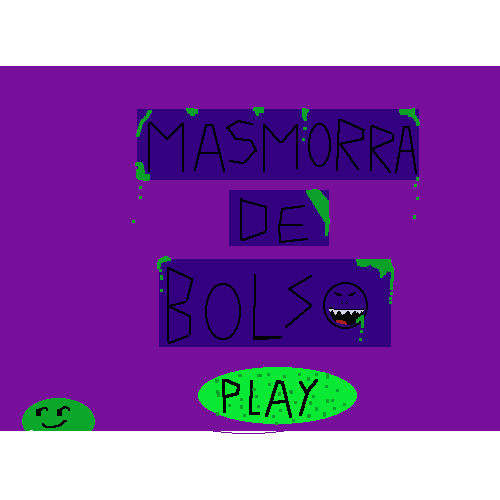
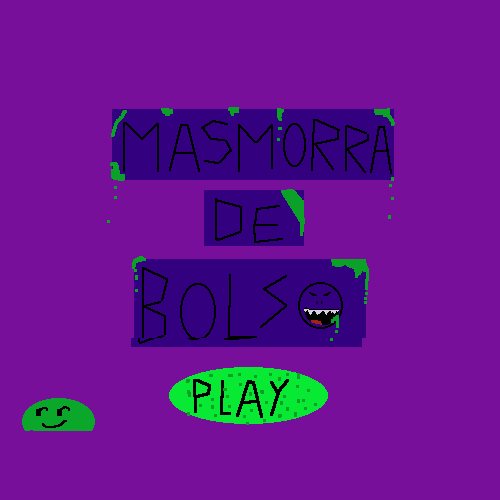
fix(ui): center title and PLAY button perfectly and blend background seamlessly

diff --git a/src/scenes/TitleScene.ts b/src/scenes/TitleScene.ts
@@ -15,24 +15,24 @@ export class TitleScene extends Phaser.Scene {
     const width = CONSTANTS.GAME_WIDTH;
     const height = CONSTANTS.GAME_HEIGHT;
 
-    // Fundo escuro com tonalidade roxa combinando com a arte
-    this.cameras.main.setBackgroundColor('#0b0714');
+    // Fundo roxo exatamente na mesma tonalidade da arte (#770f9a) para integração perfeita
+    this.cameras.main.setBackgroundColor('#770f9a');
 
-    // Partículas mágicas sutis no fundo (roxo e verde slime)
+    // Partículas mágicas sutis no fundo (verde slime e brilho dourado)
     const particles = this.add.graphics();
     particles.setDepth(1);
-    for (let i = 0; i < 30; i++) {
+    for (let i = 0; i < 25; i++) {
       const px = Math.random() * width;
       const py = Math.random() * height;
-      const pColor = Math.random() > 0.4 ? 0x770f9a : 0x22c55e;
+      const pColor = Math.random() > 0.5 ? 0x22c55e : 0xfacc15;
       particles.fillStyle(pColor, Math.random() * 0.35 + 0.15);
       particles.fillCircle(px, py, Math.random() * 1.5 + 0.5);
     }
 
-    // Imagem da Capa / Página Inicial com o logotipo e botão PLAY verde embutido
-    const titleScale = 0.58;
+    // Imagem da Capa / Página Inicial 100% centralizada na tela
+    const titleScale = 0.54;
     const imgX = width / 2;
-    const imgY = height / 2 - 6;
+    const imgY = height / 2 - 4;
 
     const titleImage = this.add.image(imgX, imgY, 'pagina_inicial');
     titleImage.setScale(titleScale);
@@ -48,14 +48,13 @@ export class TitleScene extends Phaser.Scene {
       ease: 'Sine.easeInOut'
     });
 
-    // Posição do botão oval verde "PLAY" contido na arte (500x500)
-    // No asset original: centro x=295, y=363 (offset de +45, +113 em relação ao centro 250,250)
-    const playX = imgX + 45 * titleScale;
-    const playY = imgY + 113 * titleScale;
-    const playW = 112 * (titleScale / 0.58);
-    const playH = 68 * (titleScale / 0.58);
+    // Posição do botão oval verde "PLAY" perfeitamente alinhado no centro (x = width / 2)
+    const playX = imgX;
+    const playY = imgY + 131 * titleScale;
+    const playW = 110;
+    const playH = 50;
 
-    // Zona interativa posicionada sobre o botão verde "PLAY" da arte com cursor de mão
+    // Zona interativa posicionada exatamente sobre o botão verde "PLAY" centralizado
     const playZone = this.add.zone(playX, playY, playW, playH);
     playZone.setDepth(25);
     playZone.setInteractive({ useHandCursor: true });
